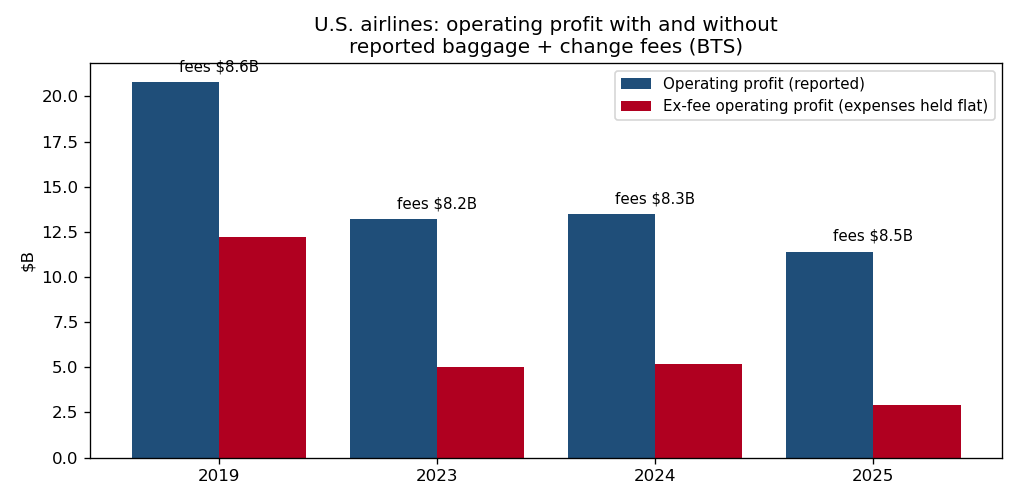
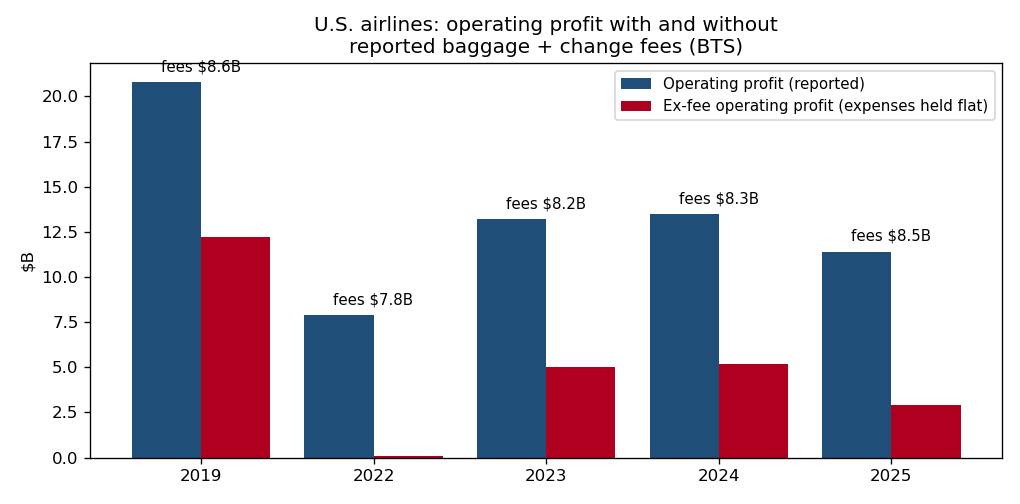
v2: fill 2021-2022 BTS gap, continuous 2019-2025 series

Changed region(s): [[0.2431, 0.3869, 0.8206, 0.9524], [0.152, 0.119, 0.2735, 0.9524], [0.8206, 0.4464, 0.9118, 0.9524]]

diff --git a/fee_profits.py b/fee_profits.py
@@ -31,12 +31,15 @@ HERE = os.path.dirname(os.path.abspath(__file__))
 
 # ---------------------------------------------------------------------------
 # BTS annual results, all U.S. scheduled passenger airlines ($B).
-# Sources in SOURCES.md. 2020 kept as a stress case, not part of the trend.
+# Sources in SOURCES.md. Continuous 2019-2025 series; the 2020-2021 loss
+# years are kept as stress cases, not part of the profit-year trend chart.
 # ---------------------------------------------------------------------------
 BTS = [
     # year, op_revenue, op_profit, net_income, baggage_fees, change_fees, n_airlines
     (2019, 196.2, 20.8, 14.8, 5.8, 2.8, 21),
     (2020, 77.3, -46.5, -35.0, 2.8, 0.9, 23),
+    (2021, 130.0, -17.3, -2.8, 5.3, 0.7, 25),
+    (2022, 211.2, 7.9, 1.6, 6.8, 1.0, 25),
     (2023, 236.3, 13.2, 7.8, 7.1, 1.1, 26),
     (2024, 247.2, 13.5, 6.7, 7.3, 1.0, 25),
     (2025, 252.6, 11.4, 6.0, 7.4, 1.1, 25),
@@ -108,7 +111,7 @@ def main():
             "op_margin_ex_fees_%": round((op - fees) / rev * 100, 1),
             "note": ("counterfactual holds expenses flat: upper bound on fee "
                      "contribution" if op > 0 else
-                     "pandemic year: fees did not offset the operating loss"),
+                     "loss year: fees did not offset the operating loss"),
         })
 
     with open(os.path.join(HERE, "results.csv"), "w", newline="") as f:
@@ -117,7 +120,7 @@ def main():
         w.writerows(rows)
 
     # ---- chart: operating profit vs ex-fee operating profit (profit years) --
-    trend = [r for r in rows if r["year"] != 2020]
+    trend = [r for r in rows if r["operating_profit_$B"] > 0]
     yrs = [str(r["year"]) for r in trend]
     fig, ax = plt.subplots(figsize=(8.5, 4.2))
     x = range(len(yrs))
@@ -158,6 +161,12 @@ def main():
         print(f"{r['year']}: reported fees (${r['reported_fees_total_$B']:.1f}B) "
               f"exceed the industry's after-tax net income "
               f"(${r['net_income_$B']:.1f}B).")
+    r2022 = next(r for r in rows if r["year"] == 2022)
+    print(f"2022: reported fees (${r2022['reported_fees_total_$B']:.1f}B) were "
+          f"{r2022['fees_share_of_op_profit_%']:.1f}% of the $7.9B operating "
+          f"profit -- ex-fee operating profit was just "
+          f"${r2022['op_profit_ex_fees_$B']:.1f}B in the first profit year "
+          f"after the pandemic losses.")
     print()
     print("Caveats: fee counterfactual holds expenses flat (upper bound);")
     print("seat/food/other ancillary revenue is NOT in the BTS fee lines,")

diff --git a/README.md b/README.md
@@ -3,13 +3,13 @@
 **Goal:** Test how much of U.S. airline operating profit is really the two fees BTS reports separately (baggage fees and reservation change fees), and what profit looks like without them.
 
 **Macro steps:**
-1. Pulled BTS annual results for all U.S. scheduled passenger airlines (2019, 2020, 2023 to 2025): operating revenue, operating profit, net income, baggage fees, change fees.
+1. Pulled BTS annual results for all U.S. scheduled passenger airlines (2019 to 2025, continuous): operating revenue, operating profit, net income, baggage fees, change fees.
 2. Ran a counterfactual: operating profit minus reported fees, expenses held flat. That is an upper bound on the fees' contribution, since checked bags do cost something to handle and BTS does not split that cost out.
 3. Pulled Big 4 (Delta, United, American, Southwest) revenue and operating income live from SEC EDGAR 10-K facts for margin context.
 4. Wrote the industry table to `results.csv`, the Big 4 table to `big4_margins.csv`, and charted reported vs ex-fee operating profit (`results.png`).
 
-**Versions:** v1, initial analysis.
+**Versions:** v1, initial analysis. v2: filled the 2021-2022 gap so the BTS series runs continuously 2019 to 2025 (2021 loss year, 2022 first profit year back); trend chart now covers all profit years.
 
-**Short results:** Reported fees are only about 3.4% of revenue, but they equal 62% of operating profit in 2023, 62% in 2024, and 75% in 2025. Without them (expenses held flat), industry operating profit falls from $11.4B to $2.9B in 2025 and the operating margin thins from 4.5% to 1.1%. In each of 2023 to 2025, baggage plus change fees alone exceeded the industry's entire after-tax net income. In 2019 the same fees were 41% of a much larger $20.8B operating profit. Two offsets: the counterfactual overstates fee profit (bags are not costless), and it understates total ancillary dependence, because seat selection, food, and other ancillary revenue are not in the BTS fee lines at all. Big 4 context: combined operating margin was 6.1% in 2025 (Delta 9.2%, United 8.0%, American 2.7%, Southwest 1.5%).
+**Short results:** Reported fees are only about 3.4% of revenue, but they equal 62% of operating profit in 2023, 62% in 2024, and 75% in 2025. Without them (expenses held flat), industry operating profit falls from $11.4B to $2.9B in 2025 and the operating margin thins from 4.5% to 1.1%. The new 2022 row is the extreme case: fees of $7.8B were 98.7% of the $7.9B operating profit, leaving ex-fee operating profit of just $0.1B. In each of 2023 to 2025, baggage plus change fees alone exceeded the industry's entire after-tax net income. In 2019 the same fees were 41% of a much larger $20.8B operating profit. Two offsets: the counterfactual overstates fee profit (bags are not costless), and it understates total ancillary dependence, because seat selection, food, and other ancillary revenue are not in the BTS fee lines at all. Big 4 context: combined operating margin was 6.1% in 2025 (Delta 9.2%, United 8.0%, American 2.7%, Southwest 1.5%).
 
 Run: `python3 fee_profits.py`

diff --git a/SOURCES.md b/SOURCES.md
@@ -12,6 +12,12 @@ counterfactual in the script.
 - 2020: BTS 30-21 (May 3, 2021). Revenue $77.3B, operating loss $46.5B,
   net loss $35.0B, baggage fees $2.8B, change fees $0.9B ($898M), 23 airlines.
   https://www.bts.gov/newsroom/us-airlines-2020-net-profit-down-35-billion-2019
+- 2021: BTS 20-22 (May 2, 2022). Revenue $130.0B, operating loss $17.3B,
+  net loss $2.8B, baggage fees $5.3B, change fees $0.7B ($698M), 25 airlines.
+  https://www.bts.gov/newsroom/2021-annual-and-4th-quarter-us-airline-financial-data
+- 2022: BTS 21-23 (May 1, 2023). Revenue $211.2B, operating profit $7.9B,
+  net $1.6B, baggage fees $6.8B, change fees $1.0B, 25 airlines.
+  https://www.bts.gov/newsroom/2022-annual-and-4th-quarter-us-airline-financial-data
 - 2023: BTS 24-24 (May 15, 2024). Revenue $236.3B, operating profit $13.2B,
   net $7.8B, baggage fees $7.1B, change fees $1.1B, 26 airlines.
   https://www.bts.gov/newsroom/us-airlines-gain-78-billion-2023-increase-over-2022
